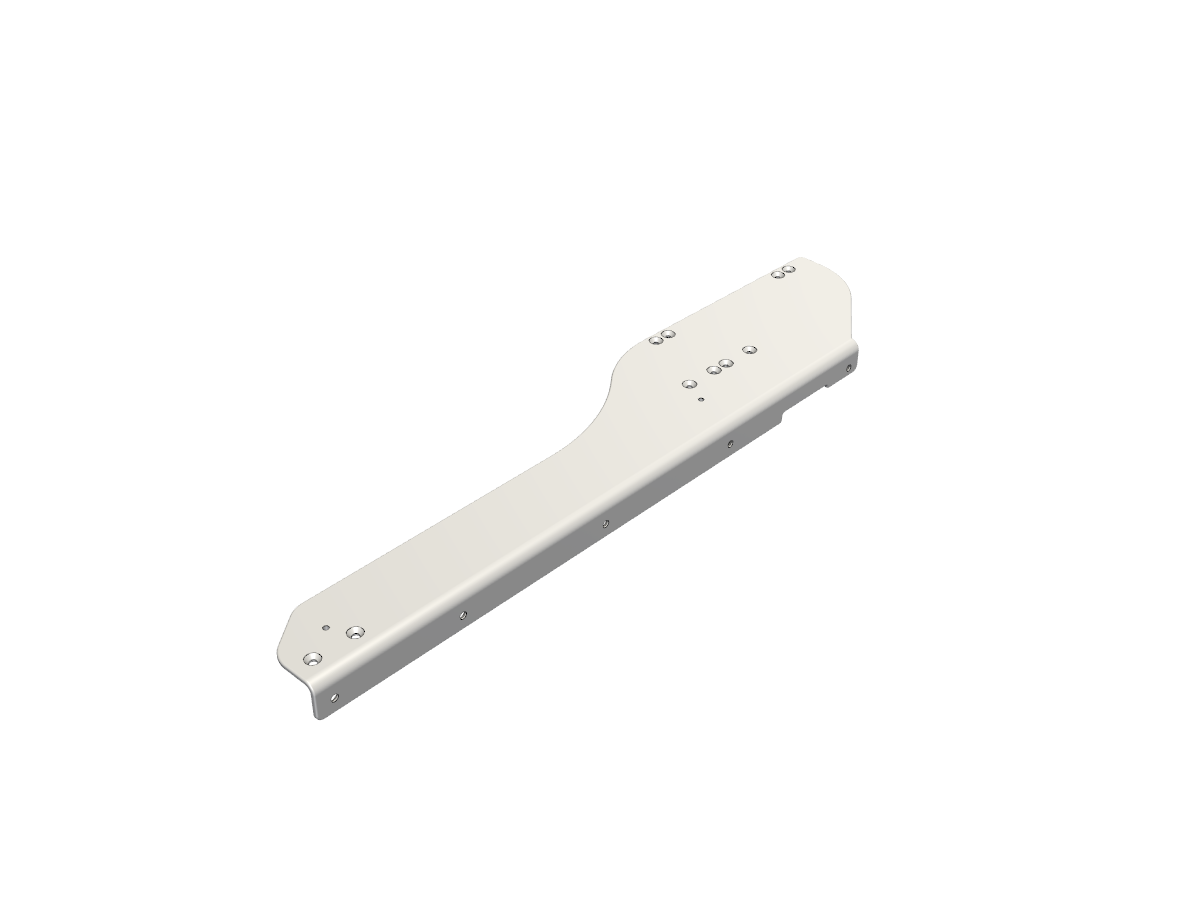
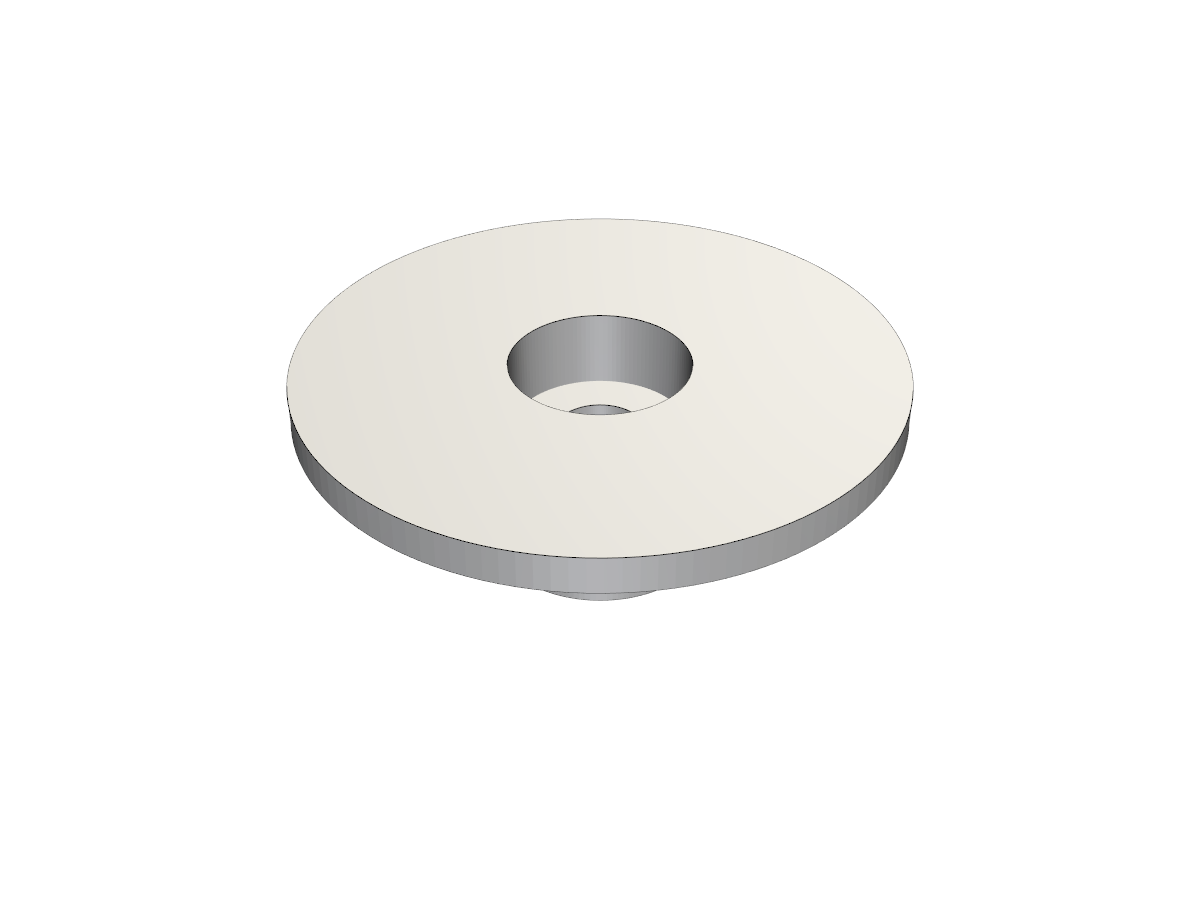
zoho_tools: Added working 2nd image

Changed region(s): [[0.2158, 0.2178, 0.7708, 0.8089]]

diff --git a/util/zoho_tools.py b/util/zoho_tools.py
@@ -31,15 +31,18 @@ def add_img_to_item(
 
     return data
 
-def add_back_img_to_item(
+def add_images_to_item(
     item_id: str,
     organization_id: str,
     access_token: str,
     image_bytes: bytes,
     filename: str = "item.png",
     content_type: str = "image/png",
+    document_ids: str | None = None,
+    remove_all: bool | None = None,
+    update_primary_image: bool | None = None,
 ) -> dict:
-    url = f"https://www.zohoapis.com/inventory/v1/items/{item_id}/backimage"
+    url = f"https://www.zohoapis.com/inventory/v1/items/{item_id}/images"
 
     headers = {
         "Authorization": f"Zoho-oauthtoken {access_token}",
@@ -48,9 +51,15 @@ def add_back_img_to_item(
     params = {
         "organization_id": organization_id,
     }
+    if document_ids is not None:
+        params["document_ids"] = document_ids
+    if remove_all is not None:
+        params["remove_all"] = str(remove_all).lower()
+    if update_primary_image is not None:
+        params["update_primary_image"] = str(update_primary_image).lower()
 
     files = {
-        "back_image": (filename, image_bytes, content_type),
+        "image": (filename, image_bytes, content_type),
     }
 
     response = requests.post(url, headers=headers, params=params, files=files)

diff --git a/api/steps.py b/api/steps.py
@@ -1,7 +1,7 @@
 from flask import Blueprint, request, jsonify
 from util.step_to_mesh import step_to_mesh, download_zoho_file
 from util.render import render_mesh_twice
-from util.zoho_tools import add_img_to_item, add_back_img_to_item
+from util.zoho_tools import add_img_to_item, add_images_to_item
 from PIL import Image
 
 steps_bp = Blueprint("steps", __name__)
@@ -36,13 +36,15 @@ def step_to_img():
     img1_bytes = image_to_bytes(img1)
     img2_bytes = image_to_bytes(img2)
 
-    result1 = add_back_img_to_item(
-        data["item_id"], data["org_id"], data["inventory_token"],
-        img1_bytes, filename="front.png", content_type="image/png",
-    )
+
     result2 = add_img_to_item(
         data["item_id"], data["org_id"], data["inventory_token"],
         img2_bytes, filename="isometric.png", content_type="image/png",
+    )
+
+    result1 = add_images_to_item(
+        data["item_id"], data["org_id"], data["inventory_token"],
+        img1_bytes, filename="front.png", content_type="image/png",
     )
 
     return jsonify({
